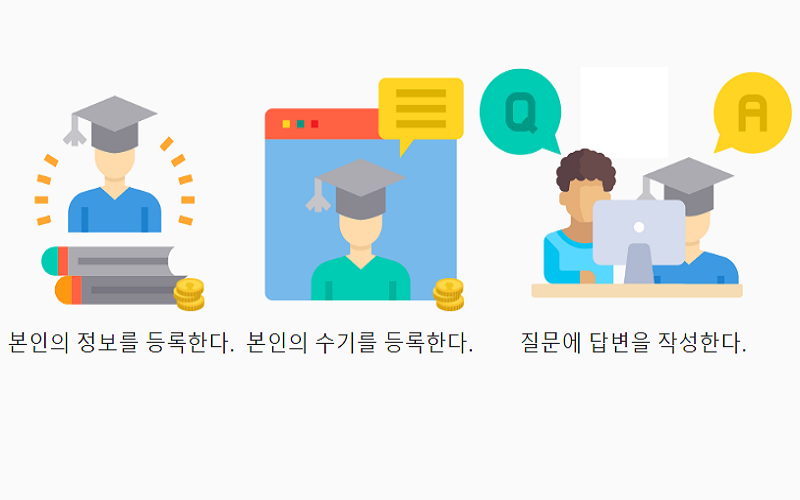
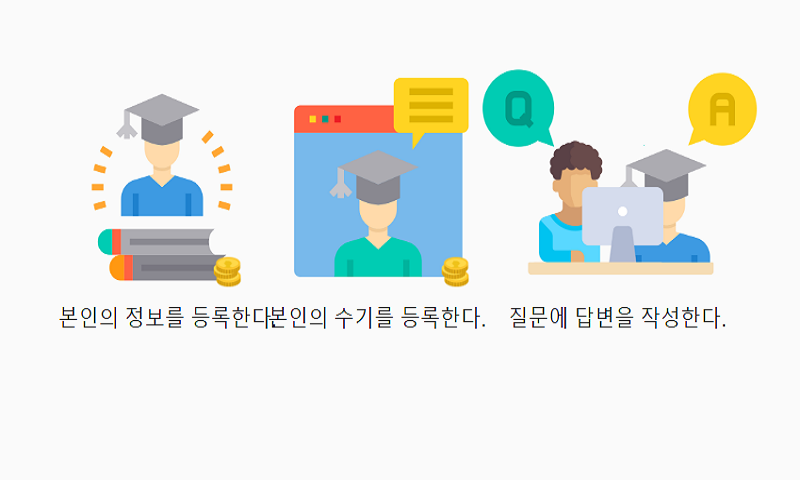
[Edit About Page] about page 수정

Changed region(s): [[0.0, 0.125, 1.0, 0.7188]]

diff --git a/pages/aboutus/index.vue b/pages/aboutus/index.vue
@@ -20,7 +20,7 @@
             <h2>DoAJOU,
                 누가 사용하나요?
             </h2>
-            <v-img :src="images.sample" style="margin-top: 5px"/>
+            <v-img class="target_img" :src="images.sample" style="margin-top: 5px"/>
             <h6>DoAJOU는 아주대학교 졸업생들과 재학생들이 <br>
             함께 경험을 나누는 공간입니다.
             </h6>
@@ -59,20 +59,22 @@
             <h2>아주코인,
                 어디서 사용하나요?
             </h2>
-            <v-layout class = "usage-list">
-                <v-flex class = "univ">
-                    <v-img class="univ_img" :src="images.univ_icon"/>
-                    <span>학교 내 식당</span>
+            <v-layout class = "usage-list">                    
+                    <v-flex class = "univ">
+                        <v-img class="univ_img" :src="images.univ_icon"/>
+                        <span>학교 내 식당</span>
+                    </v-flex>
+                    <v-flex class ="print">
+                        <v-img class="print_img" :src="images.printer_icon"/>
+                        <span>학교 내 프린트 수수료</span>
+                    </v-flex>
+                <v-flex class ="store">
+                        <v-img class="store_img" :src="images.store_icon" />
+                        <span>학교 주변 제휴 업체</span>
                 </v-flex>
-                <v-flex class ="print">
-                    <v-img class="print_img" :src="images.printer_icon"/>
-                    <span>학교 내 프린트 수수료</span>
-                </v-flex>
-               <v-flex class ="store">
-                    <v-img class="store_img" :src="images.store_icon" />
-                    <span>학교 주변 제휴 업체</span>
-               </v-flex>
+                
             </v-layout>
+            
             <h6>학교 내부 프린트 수수료, <br>
             학교 주변 상권 제휴 업체에서 사용합니다.
             </h6>
@@ -87,7 +89,7 @@
             <h2>DoAJOU,
                 어떤 기술을 사용했나요?
             </h2>
-            <v-img :src="images.tech" style="margin-top: 20px; margin-bottom: 20px;"/>
+            <v-img class="tech_img" :src="images.tech"/>
             <h6>도아주는 Javascript 기반으로 개발된 <br>
             이더리움 기반 블록체인 생태계입니다.
             </h6>
@@ -118,8 +120,11 @@
 
 <script>
 export default{
+    layout: "main",
     data(){
+
         return{
+
             images: {
                 sample : require('@/assets/images/main_target.PNG'),
                 univ_icon : require ('@/assets/images/univ_icon.PNG'),
@@ -190,13 +195,27 @@ export default{
 .carousel {
     margin-top: 35px;
     margin-bottom: 35px;
-    width: 100%;
-    height: 100%;
+    width: 50%;
+    height: 50%;
+    margin-left: auto;
+    margin-right: auto;
+    box-shadow: none;
+}
+
+.target_img, .tech_img {
+    width: 50%;
+    height: 50%;
+    margin-left: auto;
+    margin-right: auto;
+    margin-top: 20px;
+    margin-bottom: 20px;
 }
 
 .usage-list {
     margin-top: 35px;
     margin-bottom: 35px;
+    margin-left: 15rem;
+    margin-right: 15rem;
 }
 
 
@@ -245,8 +264,8 @@ export default{
     margin-bottom: 35px; 
     margin-left: auto;
     margin-right: auto;
-    width: 60%; 
-    height: 60%; 
+    width: 50%; 
+    height: 50%; 
 }
 
 </style>
